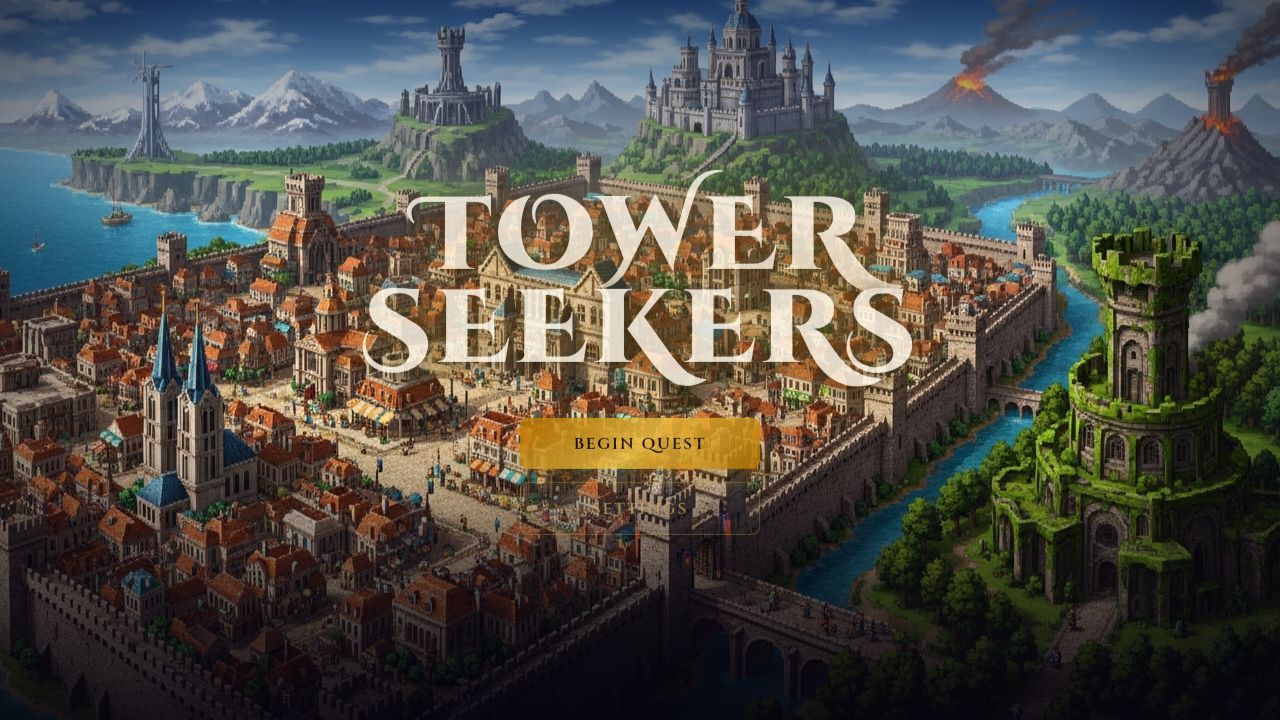
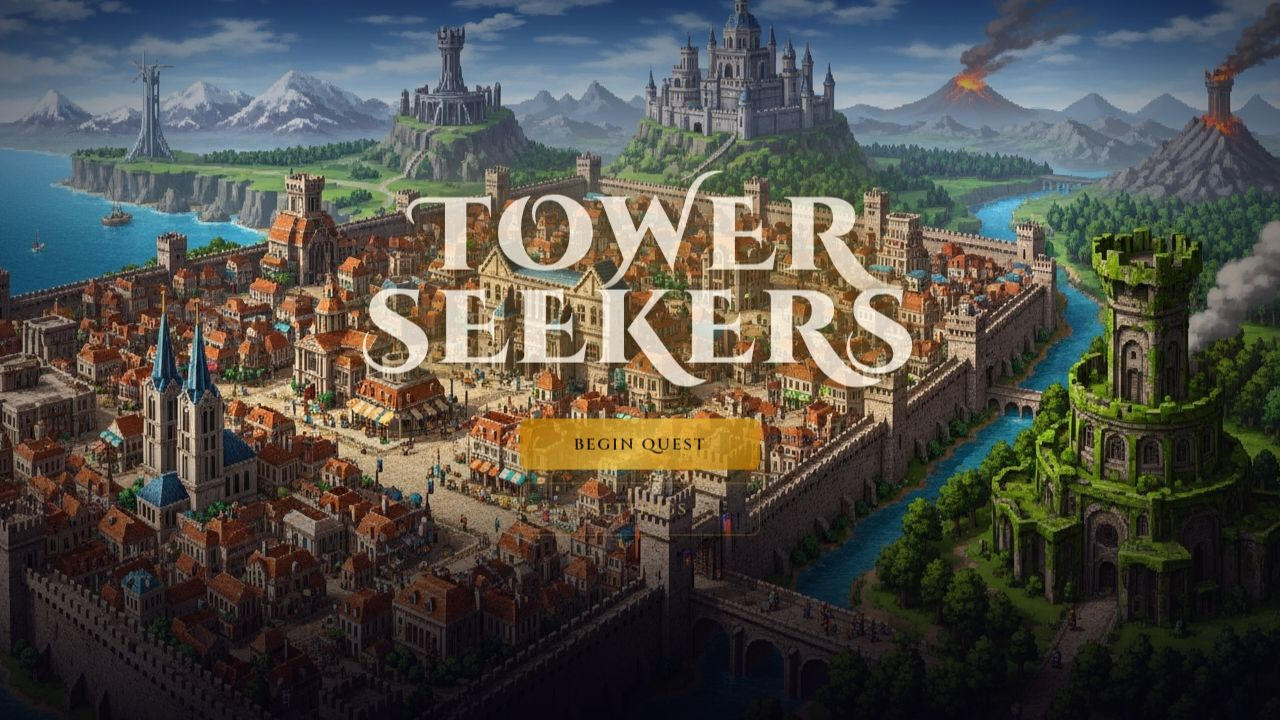
Add detailed 3D environment to the castle battle map
Introduce 3D elements like stone tiles, raised walls, water channels, and torch effects to the castle battle map using perspective projection.

Replit-Commit-Author: Agent
Replit-Commit-Session-Id: 1fcc8544-36b3-49e1-b82b-72261c5d67d9
Replit-Commit-Checkpoint-Type: full_checkpoint
Replit-Commit-Event-Id: e0530e4f-709c-47a6-bdca-4839c8e8ab82
Replit-Commit-Screenshot-Url: https://storage.googleapis.com/screenshot-production-us-central1/e16e9f5e-ad4f-421a-bc52-eca91f08de8e/1fcc8544-36b3-49e1-b82b-72261c5d67d9/fSCNbdw
Replit-Helium-Checkpoint-Created: true

diff --git a/artifacts/game-client/src/components/BattleRenderer.tsx b/artifacts/game-client/src/components/BattleRenderer.tsx
@@ -27,6 +27,53 @@ const MAP_GROUND_COLOR: Record<MapType, number> = {
   colosseum: 0x301a08,
 };
 
+// ── 3D environment constants ──────────────────────────────────────────────────
+const WALL_H     = 60;  // Wall height in local-space units (same coord system as lx/ly)
+const WALL_THICK = 20;  // Wall top-cap depth in local units
+
+// Lighter tile colour per map
+const MAP_STONE_A: Record<MapType, number> = {
+  castle:    0x8c8272,
+  desert:    0xc4a87a,
+  forest:    0x6e8060,
+  colosseum: 0xa09262,
+};
+// Darker tile colour per map
+const MAP_STONE_B: Record<MapType, number> = {
+  castle:    0x6c6055,
+  desert:    0xa08450,
+  forest:    0x526048,
+  colosseum: 0x826e48,
+};
+// Mortar / grout lines
+const MAP_MORTAR: Record<MapType, number> = {
+  castle:    0x38302a,
+  desert:    0x5c4018,
+  forest:    0x283820,
+  colosseum: 0x463c20,
+};
+// Inner (visible) wall face colour
+const MAP_WALL_FACE: Record<MapType, number> = {
+  castle:    0x68604e,
+  desert:    0x887448,
+  forest:    0x485a40,
+  colosseum: 0x7e6848,
+};
+// Wall top / cap face colour
+const MAP_WALL_TOP: Record<MapType, number> = {
+  castle:    0x887e6c,
+  desert:    0xa89060,
+  forest:    0x68785a,
+  colosseum: 0xa08460,
+};
+// Centre divider water / surface colour
+const MAP_WATER: Record<MapType, number> = {
+  castle:    0x1e4870,
+  desert:    0x7a5820,
+  forest:    0x267aaa,
+  colosseum: 0x463c12,
+};
+
 // ── Perspective constants — must match Battle.tsx CSS ────────────────────────
 // perspective: 900px; rotateX(30deg); perspective-origin: 50% 42%
 const ROT_DEG   = 30;
@@ -266,7 +313,6 @@ export default function BattleRenderer({
       root.addChild(groundLayer);
       const groundGfx = new Graphics();
       groundLayer.addChild(groundGfx);
-      const groundColor = MAP_GROUND_COLOR[mapType];
 
       // ── Particle layer ────────────────────────────────────────────────────
       const particleContainer = new Container();
@@ -350,105 +396,167 @@ export default function BattleRenderer({
           if (midSprite) { midSprite.x = w / 2 + swayX;       midSprite.y = h / 2 + swayY; }
         }
 
-        // ── Perspective-correct 3D floor grid ───────────────────────────────
-        // Matches CSS: perspective(PERSP_PX) rotateX(ROT_DEG) on .b-battlefield
+        // ── 3D Castle Map: stone tiles + raised walls + water + torches ─────
+        // Uses projH(lx, ly, h) for correct perspective on elevated geometry,
+        // matching CSS: perspective(PERSP_PX) rotateX(ROT_DEG) on .b-battlefield
         const bfEl = document.querySelector<HTMLElement>(".b-battlefield");
         const fwEl = document.querySelector<HTMLElement>(".b-field-wrap");
         groundGfx.clear();
         if (bfEl && fwEl) {
-          const fwRect = fwEl.getBoundingClientRect();
+          const fwRect  = fwEl.getBoundingClientRect();
           const BW      = bfEl.offsetWidth;
           const BH      = bfEl.offsetHeight;
-          const BH_STEP = BH / 4; // = STEP (78px): vertical spacing between rows
+          const BH_STEP = BH / 4;
 
-          const θ = ROT_DEG * Math.PI / 180;
+          const θ    = ROT_DEG * Math.PI / 180;
           const cosθ = Math.cos(θ);
           const sinθ = Math.sin(θ);
           const d    = PERSP_PX;
 
-          // Perspective-origin in canvas coords.
-          // CSS perspective-origin: 50% PERSP_OY*100% on .b-field-wrap
           const fw_cx = (fwRect.left + fwRect.right) / 2 - canvasRect.left;
           const fw_cy = fwRect.top + fwRect.height * PERSP_OY - canvasRect.top;
+          const dx    = bfEl.offsetLeft + BW / 2 - fwEl.offsetWidth  * 0.5;
+          const dy    = bfEl.offsetTop  + BH / 2 - fwEl.offsetHeight * PERSP_OY;
 
-          // Offset of battlefield center from the perspective-origin
-          const dx = bfEl.offsetLeft + BW / 2 - fwEl.offsetWidth  * 0.5;
-          const dy = bfEl.offsetTop  + BH / 2 - fwEl.offsetHeight * PERSP_OY;
-
-          // Project a point in battlefield local space (relative to bf center) → canvas
+          // Ground-level projection
           const proj = (lx: number, ly: number) => {
             const z     = ly * sinθ;
             const scale = d / (d - z);
-            return {
-              x: fw_cx + (dx + lx) * scale,
-              y: fw_cy + (dy + ly * cosθ) * scale,
-            };
+            return { x: fw_cx + (dx + lx) * scale, y: fw_cy + (dy + ly * cosθ) * scale };
+          };
+          // Elevated projection — h in same local-space units as lx/ly
+          const projH = (lx: number, ly: number, h: number) => {
+            const z     = ly * sinθ + h * cosθ;
+            const y_rot = ly * cosθ - h * sinθ;
+            const scale = d / (d - z);
+            return { x: fw_cx + (dx + lx) * scale, y: fw_cy + (dy + y_rot) * scale };
           };
 
           const hw = BW / 2, hh = BH / 2;
-          const TL = proj(-hw, -hh), TR = proj(hw, -hh);
-          const BL = proj(-hw,  hh), BR = proj(hw,  hh);
 
-          // ─ Base floor fill ───────────────────────────────────────────────
-          groundGfx
-            .poly([TL.x, TL.y, TR.x, TR.y, BR.x, BR.y, BL.x, BL.y])
-            .fill({ color: groundColor, alpha: 0.72 });
+          const stoneA    = MAP_STONE_A[mapType];
+          const stoneB    = MAP_STONE_B[mapType];
+          const mortar    = MAP_MORTAR[mapType];
+          const wallFaceC = MAP_WALL_FACE[mapType];
+          const wallTopC  = MAP_WALL_TOP[mapType];
+          const waterC    = MAP_WATER[mapType];
 
-          // ─ Row depth bands (front rows slightly lighter) ─────────────────
-          for (let r = 0; r < 4; r++) {
-            const ly0 = -hh + r       * BH_STEP;
-            const ly1 = -hh + (r + 1) * BH_STEP;
-            const L0 = proj(-hw, ly0), R0 = proj(hw, ly0);
-            const L1 = proj(-hw, ly1), R1 = proj(hw, ly1);
-            groundGfx
-              .poly([L0.x, L0.y, R0.x, R0.y, R1.x, R1.y, L1.x, L1.y])
-              .fill({ color: 0xffffff, alpha: 0.03 + r * 0.025 });
+          // Helper: draw a filled quad from 4 {x,y} points
+          const quad = (pts: { x: number; y: number }[], color: number, alpha: number) =>
+            groundGfx.poly(pts.flatMap(p => [p.x, p.y])).fill({ color, alpha });
+
+          // ── 1. Wall inner faces (back → sides → front for depth order) ──
+          // Back wall (far edge, ly = -hh)
+          quad([projH(-hw, -hh, WALL_H), projH(hw, -hh, WALL_H),
+                proj(hw, -hh),           proj(-hw, -hh)],
+               wallFaceC, 0.94);
+          // Left wall
+          quad([projH(-hw, -hh, WALL_H), proj(-hw, -hh),
+                proj(-hw,  hh),          projH(-hw, hh, WALL_H)],
+               wallFaceC, 0.78);
+          // Right wall
+          quad([proj(hw, -hh),           projH(hw, -hh, WALL_H),
+                projH(hw,  hh, WALL_H),  proj(hw, hh)],
+               wallFaceC, 0.78);
+          // Front wall (faces away — thin shadow sliver visible from above)
+          quad([proj(-hw, hh),            proj(hw, hh),
+                projH(hw, hh, WALL_H),   projH(-hw, hh, WALL_H)],
+               wallFaceC, 0.48);
+
+          // ── 2. Stone floor tiles (back rows first for depth ordering) ────
+          const GROUT = 2.5;
+          const drawTile = (lx0: number, ly0: number, lx1: number, ly1: number,
+                            col: number, row: number) => {
+            const depth   = row / 3.5;
+            const isLight = (row + col) % 2 === 0;
+            const baseA   = 0.78 + depth * 0.14;
+            // Outer mortar / grout
+            quad([proj(lx0, ly0), proj(lx1, ly0), proj(lx1, ly1), proj(lx0, ly1)],
+                 mortar, baseA);
+            // Inner stone face (inset by GROUT on all sides)
+            quad([proj(lx0 + GROUT, ly0 + GROUT), proj(lx1 - GROUT, ly0 + GROUT),
+                  proj(lx1 - GROUT, ly1 - GROUT), proj(lx0 + GROUT, ly1 - GROUT)],
+                 isLight ? stoneA : stoneB, baseA);
+          };
+
+          for (let row = 0; row < 4; row++) {
+            const ly0 = -hh + row * BH_STEP;
+            const ly1 = ly0 + BH_STEP;
+            for (let col = 0; col < 4; col++) {
+              drawTile(-hw + col * BF_STEP, ly0, -hw + col * BF_STEP + BF_STEP, ly1, col, row);
+              const ex0 = -hw + BF_ENEMY_OFFSET + col * BF_STEP;
+              drawTile(ex0, ly0, ex0 + BF_STEP, ly1, col + 4, row);
+            }
           }
 
-          // ─ Row grid lines (5 lines including top/bottom edges) ───────────
-          for (let r = 0; r <= 4; r++) {
-            const ly   = -hh + r * BH_STEP;
-            const L    = proj(-hw, ly), R = proj(hw, ly);
-            const edge = r === 0 || r === 4;
-            groundGfx
-              .moveTo(L.x, L.y).lineTo(R.x, R.y)
-              .stroke({ color: 0xffffff, alpha: edge ? 0.28 : 0.10, width: edge ? 2 : 1 });
+          // ── 3. Water channel (the 36 px centre gap) ─────────────────────
+          const chanL = -hw + BF_STEP * 4;       // −18 in local space
+          const chanR = -hw + BF_ENEMY_OFFSET;   // +18 in local space
+          quad([proj(chanL, -hh), proj(chanR, -hh), proj(chanR, hh), proj(chanL, hh)],
+               waterC, 0.90);
+          // Animated ripple highlights
+          for (let wr = 0; wr < 4; wr++) {
+            const phase = (tick * 0.018 + wr * 1.4) % (Math.PI * 2);
+            const wave  = Math.sin(phase) * 4;
+            const ly0   = -hh + wr * BH_STEP + 10;
+            const ly1   = -hh + wr * BH_STEP + BH_STEP - 10;
+            const wx    = (chanL + chanR) / 2 + wave;
+            quad([proj(wx - 5, ly0), proj(wx + 5, ly0), proj(wx + 5, ly1), proj(wx - 5, ly1)],
+                 0xaaddff, 0.06 + 0.04 * Math.sin(phase));
           }
 
-          // ─ Column grid lines (ally cols + divider gap + enemy cols) ──────
-          for (const colX of BF_COL_XS) {
-            const lx         = colX - hw;
-            const T          = proj(lx, -hh), Bo = proj(lx, hh);
-            const isEdge     = colX === 0;
-            const isDivider  = colX === BF_STEP * 4;
-            groundGfx
-              .moveTo(T.x, T.y).lineTo(Bo.x, Bo.y)
-              .stroke({
-                color: 0xffffff,
-                alpha: isEdge ? 0.20 : isDivider ? 0.16 : 0.07,
-                width: 1,
-              });
+          // ── 4. Wall top / cap faces (drawn after tiles so they sit on top) ─
+          const WT = WALL_THICK;
+          // Back
+          quad([projH(-hw, -hh - WT, WALL_H), projH(hw, -hh - WT, WALL_H),
+                projH(hw, -hh, WALL_H),        projH(-hw, -hh, WALL_H)],
+               wallTopC, 0.92);
+          // Left
+          quad([projH(-hw - WT, -hh, WALL_H), projH(-hw, -hh, WALL_H),
+                projH(-hw,  hh, WALL_H),       projH(-hw - WT, hh, WALL_H)],
+               wallTopC, 0.88);
+          // Right
+          quad([projH(hw, -hh, WALL_H),        projH(hw + WT, -hh, WALL_H),
+                projH(hw + WT, hh, WALL_H),    projH(hw, hh, WALL_H)],
+               wallTopC, 0.88);
+          // Front
+          quad([projH(-hw, hh, WALL_H),        projH(hw, hh, WALL_H),
+                projH(hw, hh + WT, WALL_H),    projH(-hw, hh + WT, WALL_H)],
+               wallTopC, 0.80);
+
+          // ── 5. Masonry lines on the back wall face ───────────────────────
+          // Two horizontal mortar courses
+          for (let c = 1; c <= 2; c++) {
+            const yf = (c / 3) * WALL_H;
+            const L  = projH(-hw, -hh, yf), R = projH(hw, -hh, yf);
+            groundGfx.moveTo(L.x, L.y).lineTo(R.x, R.y)
+              .stroke({ color: 0x000000, alpha: 0.16, width: 1 });
           }
-          // Right edge column
-          { const lx = hw; const T = proj(lx, -hh), Bo = proj(lx, hh);
-            groundGfx.moveTo(T.x, T.y).lineTo(Bo.x, Bo.y).stroke({ color: 0xffffff, alpha: 0.20, width: 1 }); }
+          // Vertical stone joints at every grid column
+          for (let s = 1; s <= 7; s++) {
+            const lx_s = -hw + s * (BW / 8);
+            const bot  = proj(lx_s, -hh);
+            const top  = projH(lx_s, -hh, WALL_H);
+            groundGfx.moveTo(bot.x, bot.y).lineTo(top.x, top.y)
+              .stroke({ color: 0x000000, alpha: 0.12, width: 1 });
+          }
 
-          // ─ Front edge highlight ──────────────────────────────────────────
-          groundGfx
-            .moveTo(BL.x, BL.y).lineTo(BR.x, BR.y)
-            .stroke({ color: 0xffffff, alpha: 0.50, width: 3 });
-
-          // ─ Back (far) edge — horizon glow in map color ───────────────────
-          groundGfx
-            .moveTo(TL.x, TL.y).lineTo(TR.x, TR.y)
-            .stroke({ color: groundColor, alpha: 0.80, width: 4 });
-
-          // ─ Center divider glow (between ally/enemy halves) ───────────────
-          const divMidX  = (BF_STEP * 4 + BF_ENEMY_OFFSET) / 2 - hw;
-          const T_div    = proj(divMidX, -hh), B_div = proj(divMidX, hh);
-          groundGfx
-            .moveTo(T_div.x, T_div.y).lineTo(B_div.x, B_div.y)
-            .stroke({ color: 0xffcc44, alpha: 0.12, width: 3 });
+          // ── 6. Corner torch glows ─────────────────────────────────────────
+          const TORCH_H = WALL_H + 20;
+          for (const [clx, cly] of [[-hw, -hh], [hw, -hh], [-hw, hh], [hw, hh]] as [number, number][]) {
+            const tp  = projH(clx, cly, TORCH_H);
+            const f   = Math.sin(tick * 0.13 + clx * 0.01 + cly * 0.01) * 0.18;
+            const f2  = Math.sin(tick * 0.19 + clx * 0.02) * 0.10;
+            // Outer atmospheric corona
+            groundGfx.circle(tp.x, tp.y, 24 + f * 8)
+              .fill({ color: 0xff4400, alpha: 0.12 + f2 * 0.04 });
+            // Flame body
+            groundGfx.circle(tp.x, tp.y, 11 + f * 3)
+              .fill({ color: 0xff9900, alpha: 0.72 + f2 * 0.10 });
+            // Hot core
+            groundGfx.circle(tp.x, tp.y, 5)
+              .fill({ color: 0xffee88, alpha: 0.92 });
+          }
         }
 
         // ── Particles ─────────────────────────────────────────────────────